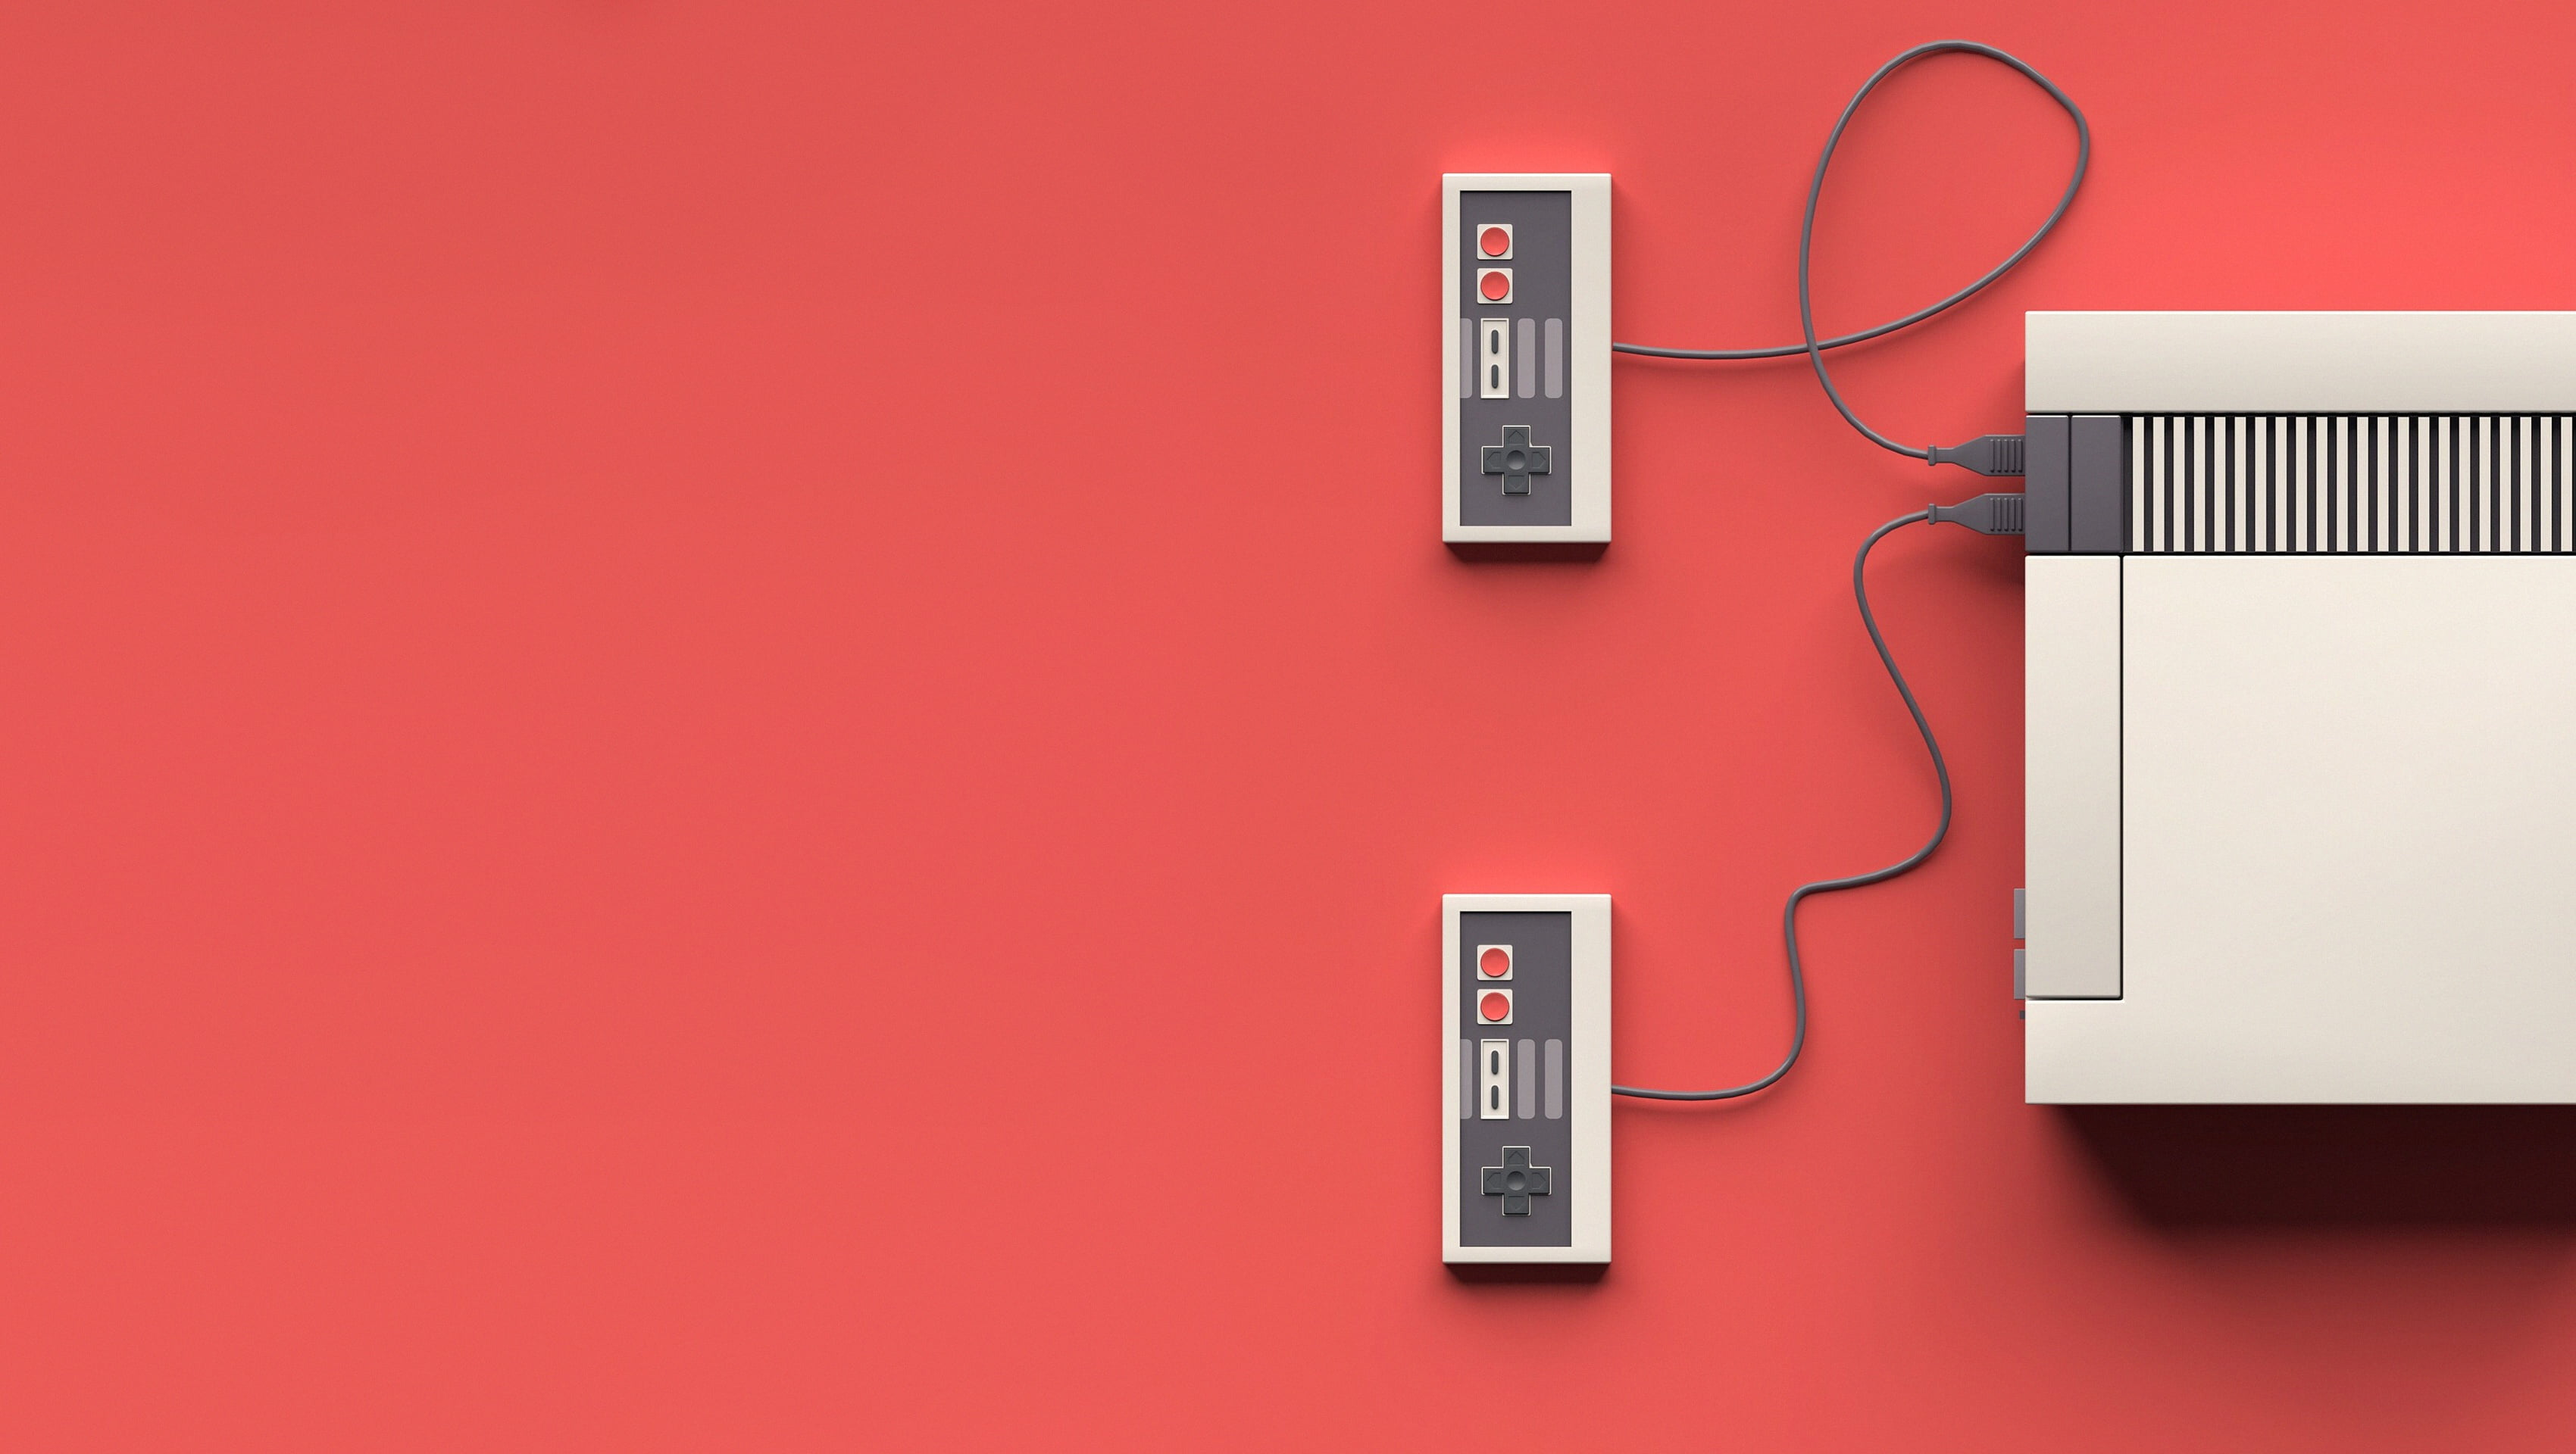
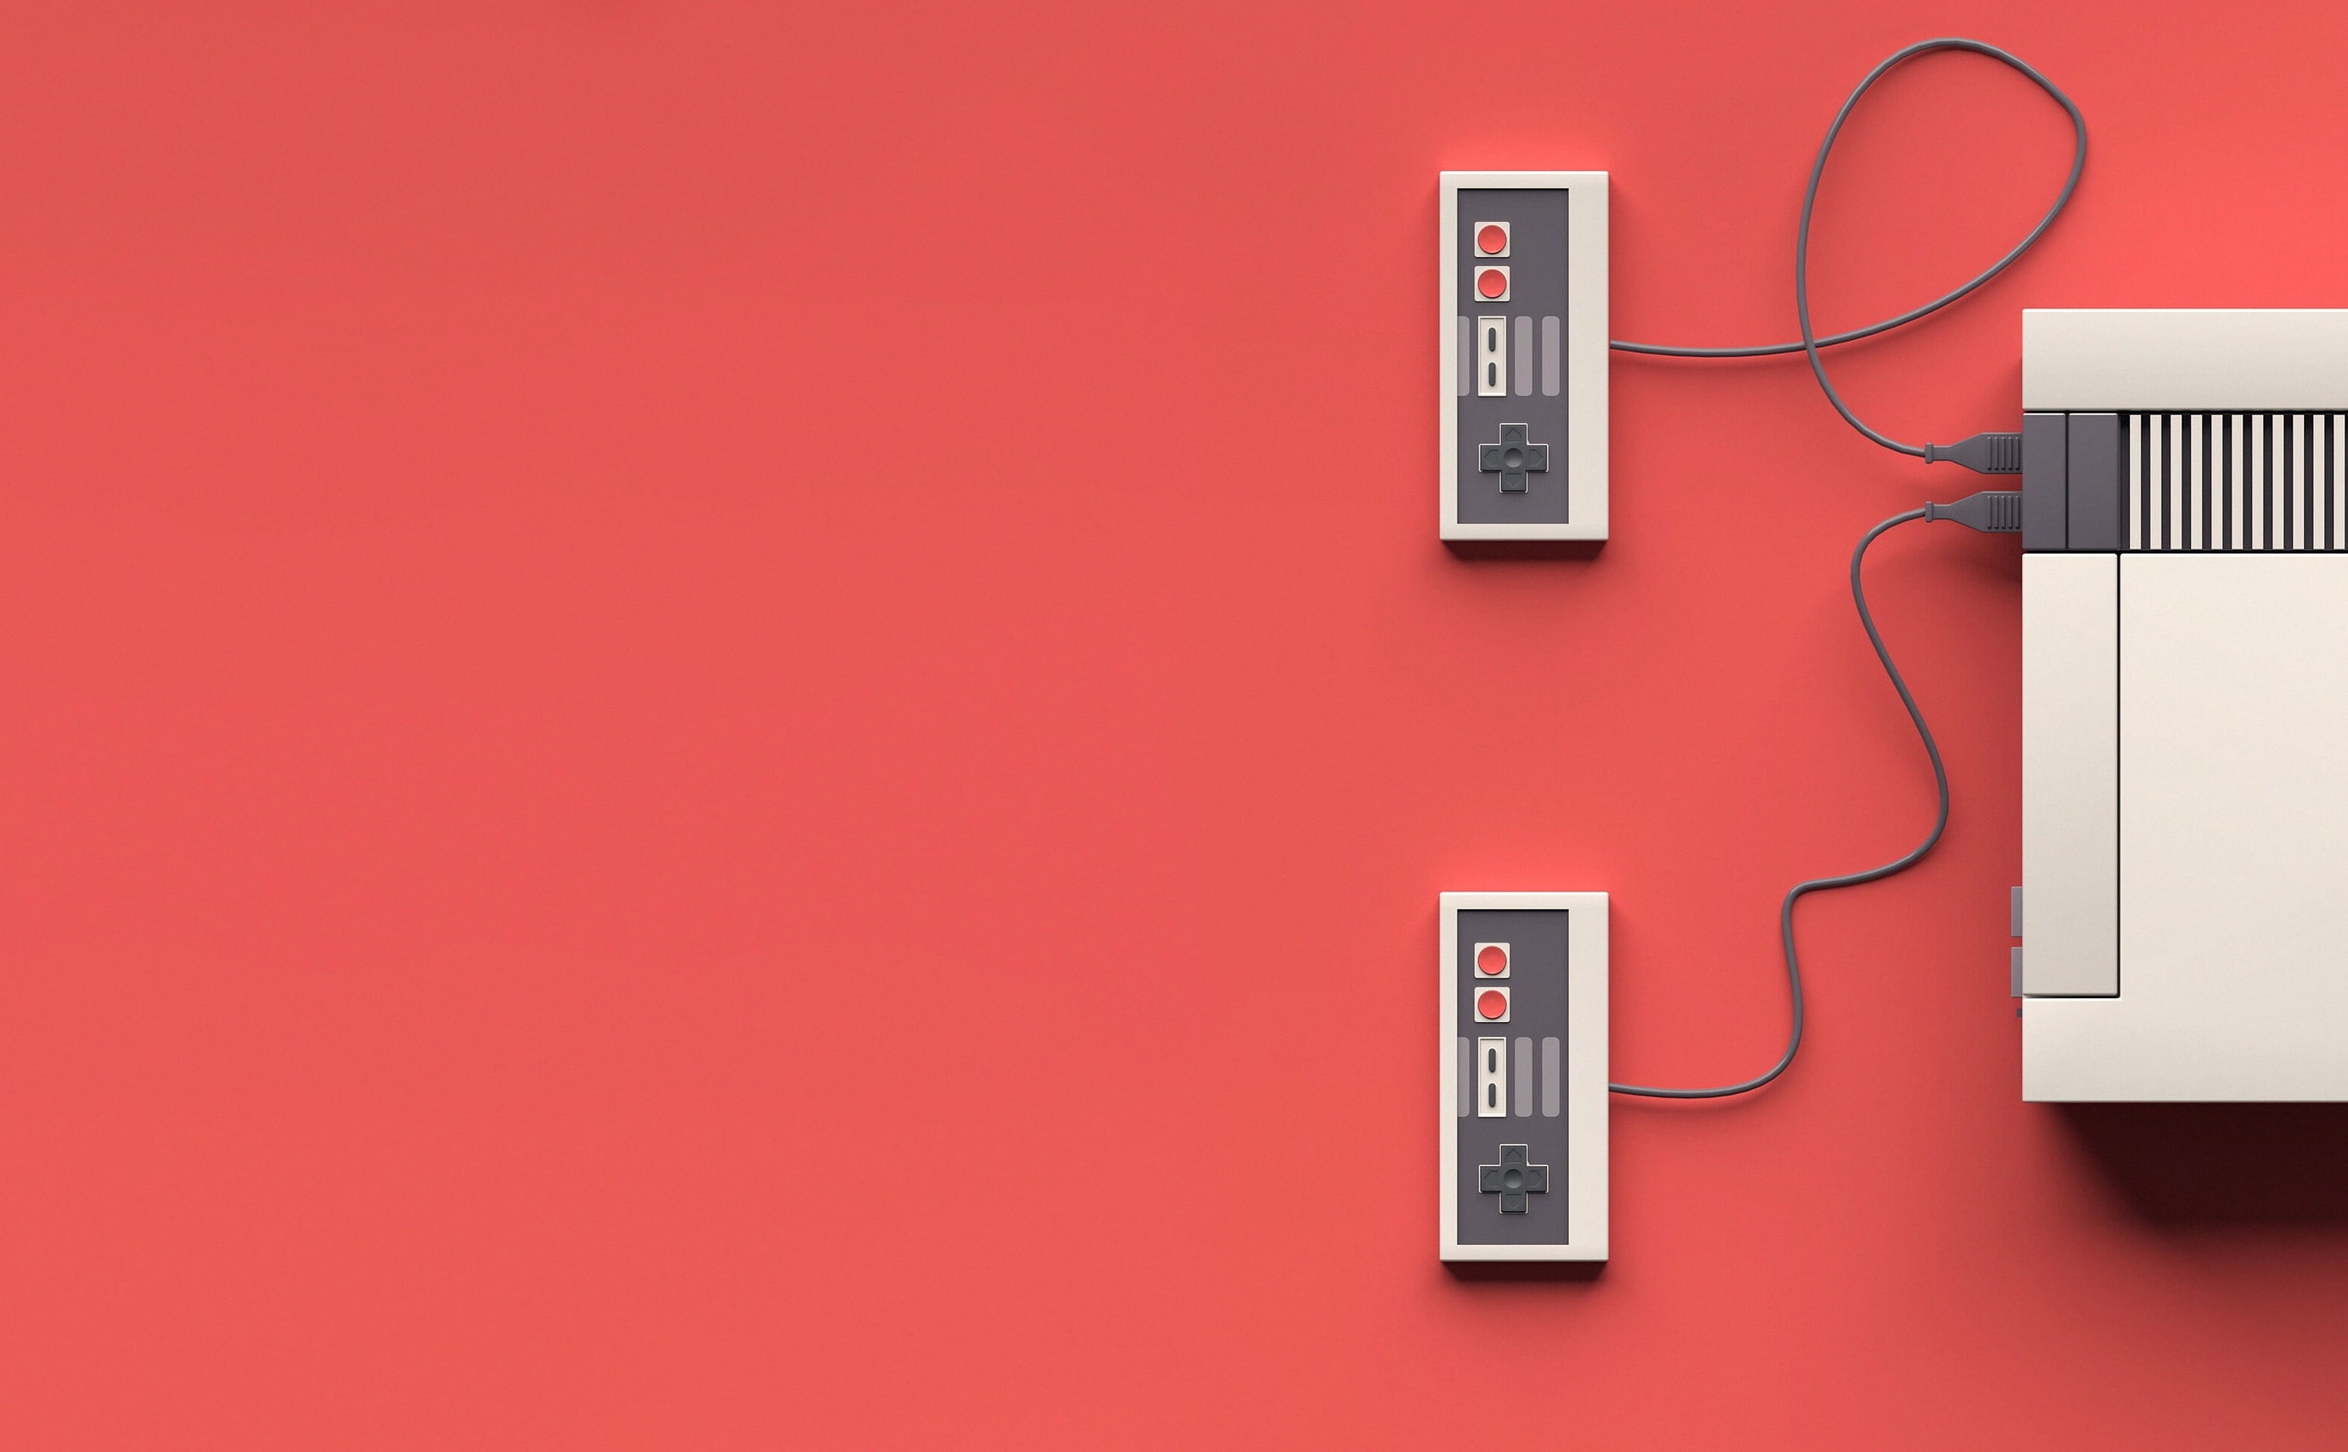
background image and align canvas

Changed region(s): [[0.5574, 0.0, 1.0, 0.9541], [0.96, 0.1847, 1.0, 0.2154]]

diff --git a/stylesheets/styles.css b/stylesheets/styles.css
@@ -1,24 +1,16 @@
+
 body {
   background: url('/images/wallpaperflare.com_wallpaper.jpg') no-repeat center center fixed;
   background-size: cover;
-  height: auto;
-}
-/* canvas {
-  border: 2px solid black;
-  display: block;
-  margin-top: 10%;
-  margin: auto;
-  padding: auto;  
-} */
-
-.canvas {
-  /* width: 100%; */
-  height: 100%
+  min-height: 100%;
+  min-width: 100%;
 }
 
-/* .machine {
-  width: max-content;
-  display: block;
-  margin: auto;
-  padding: auto;
-} */
+ .canvas {
+  width: 1100px;
+  height: 900px;
+  display: flex;
+  flex-direction: column;
+  justify-content: center;
+  align-items: center;
+}

diff --git a/index.html b/index.html
@@ -11,9 +11,7 @@
   <div class="canvas">
     <canvas id="snake" width="900" height="600"></canvas>
   </div>
-  <!-- <span class="machine">
-    <img src="/images/wp7560513-arcade-game-wallpapers-removebg-preview.png" alt="arcade machine image">
-  </span> -->
+
   <!-- <canvas id="snake" width="900" height="600"></canvas> -->
 
   <script src="/scripts/player.js"></script>
